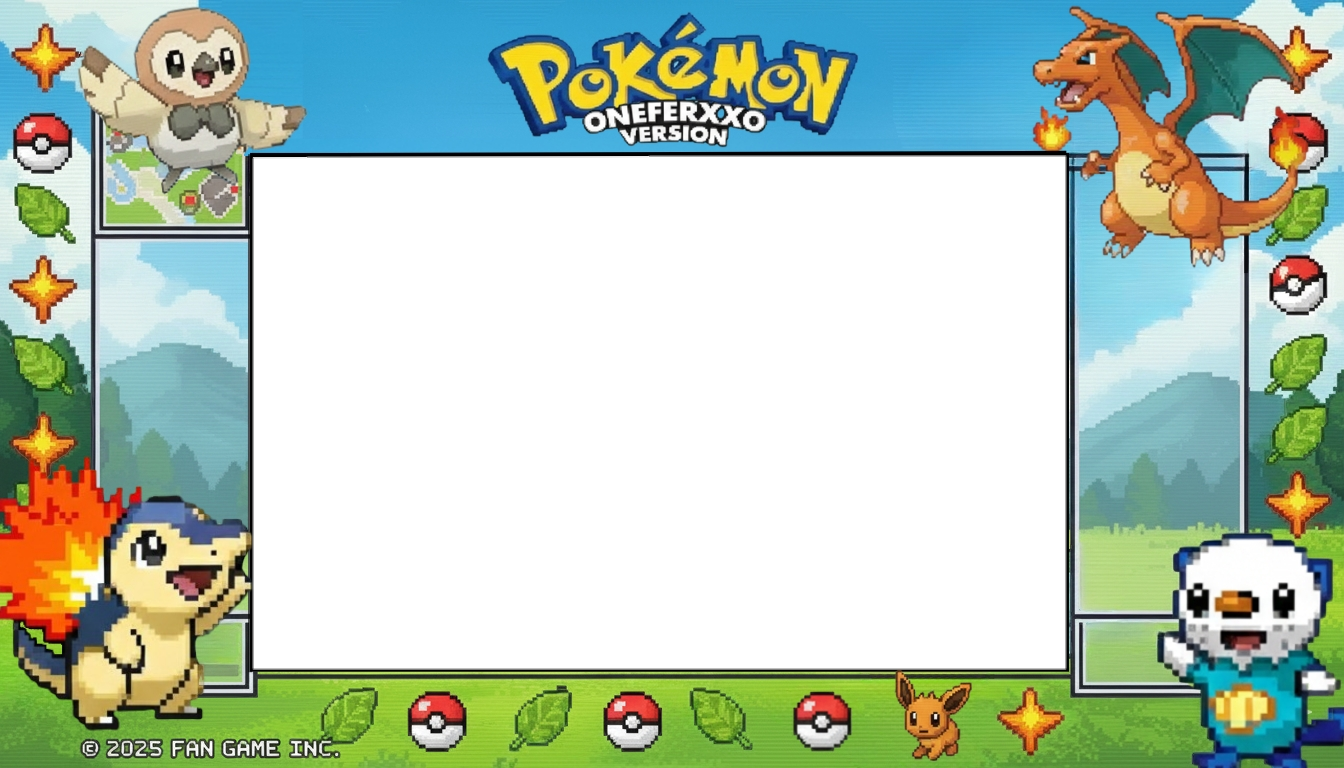
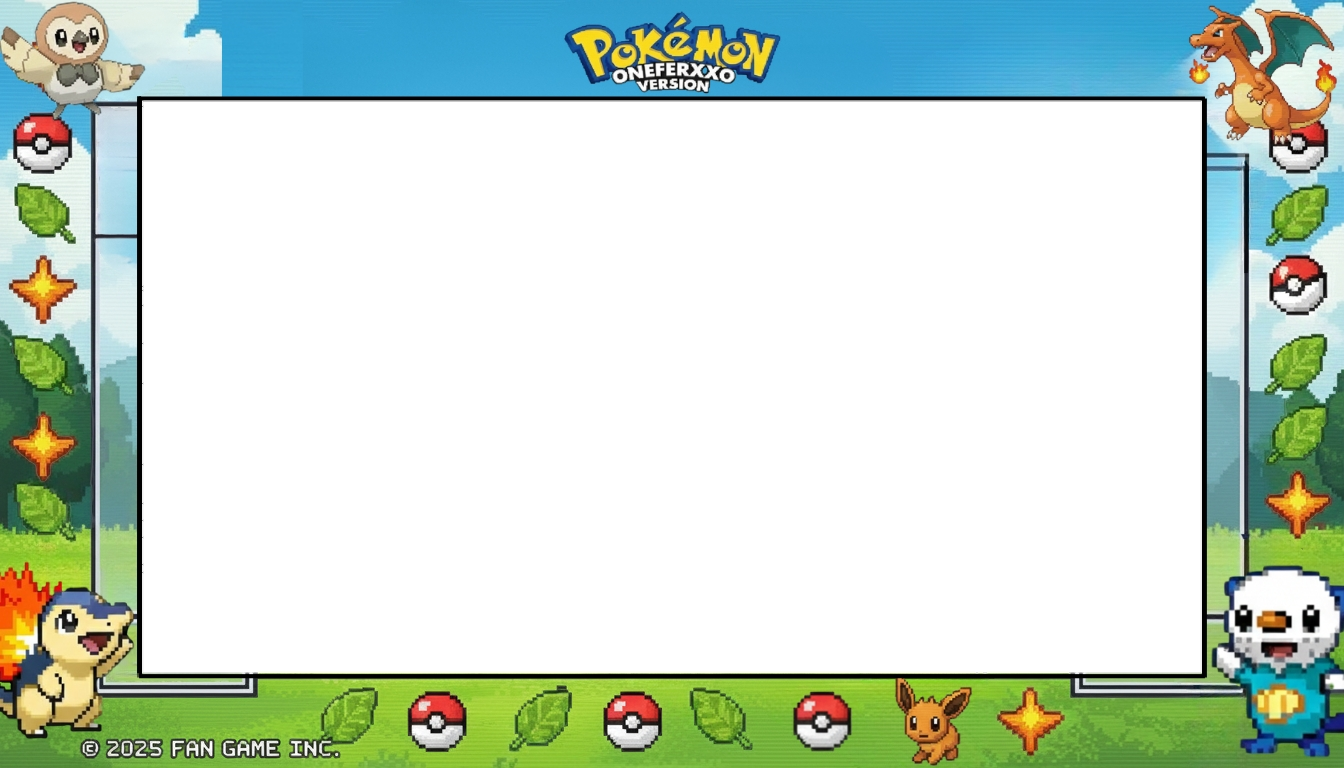
ferxxo 6

diff --git a/core/src/main/java/com/mypokemon/game/IntroScreen.java b/core/src/main/java/com/mypokemon/game/IntroScreen.java
@@ -36,13 +36,15 @@ public class IntroScreen implements Screen {
 
     private Texture frameTexture; // Nuevo Marco
     private Texture pokeballImage;
+    private Texture poofImage;
+    private Animation<TextureRegion> poofAnim;
 
     // Layout constants
     // Viewport relative to screen size (Estimated from image)
-    private static final float VP_X_PCT = 0.185f;
-    private static final float VP_Y_PCT = 0.19f;
-    private static final float VP_W_PCT = 0.63f;
-    private static final float VP_H_PCT = 0.62f; // Bottom padding slightly larger
+    private static final float VP_X_PCT = 0.12f;
+    private static final float VP_Y_PCT = 0.12f;
+    private static final float VP_W_PCT = 0.76f;
+    private static final float VP_H_PCT = 0.76f; // Bottom padding slightly larger
 
     private static final float TEXT_BOX_HEIGHT = 140f;
 
@@ -110,11 +112,19 @@ public class IntroScreen implements Screen {
             protaMasc = new Texture("ProtaMasc.png");
             frameTexture = new Texture("marcoPokemon.png");
             pokeballImage = new Texture("pokeball.png");
+            poofImage = new Texture("poof.png"); // New smoke asset
 
-            // Overwrite first frame with Pokeball
-            if (poseFrames.length > 0) {
-                poseFrames[0] = new TextureRegion(pokeballImage);
+            // Setup Poof Animation (2x2 from sheet)
+            TextureRegion[][] poofTmp = TextureRegion.split(poofImage, poofImage.getWidth() / 2,
+                    poofImage.getHeight() / 2);
+            TextureRegion[] poofFrames = new TextureRegion[4];
+            int pIndex = 0;
+            for (int i = 0; i < 2; i++) {
+                for (int j = 0; j < 2; j++) {
+                    poofFrames[pIndex++] = poofTmp[i][j];
+                }
             }
+            poofAnim = new Animation<>(0.1f, poofFrames); // 0.4s total duration
 
         } catch (Exception e) {
             Gdx.app.log("IntroScreen", "Could not load assets", e);
@@ -264,6 +274,8 @@ public class IntroScreen implements Screen {
                     currentState = State.PRE_CLOSING;
                 } else {
                     currentState = State.ENTER_NAME;
+                    playerName = ""; // Clear name
+                    caretPosition = 0; // Reset cursor
                 }
                 break;
             case PRE_CLOSING:
@@ -355,8 +367,8 @@ public class IntroScreen implements Screen {
                     imgScale = 1.0f;
                     // Scale Up Ferxxo (Scientist) slightly more if space allows
                     if (imgToDraw == ferxxoImage) {
-                        if (imgToDraw.getHeight() * 1.5f <= availableH)
-                            imgScale = 1.5f;
+                        if (imgToDraw.getHeight() * 1.8f <= availableH)
+                            imgScale = 1.8f; // Increased from 1.5f
                         else
                             imgScale = availableH / imgToDraw.getHeight(); // fallback
                     } else {
@@ -375,27 +387,45 @@ public class IntroScreen implements Screen {
 
                 // JIGGLYPUFF Logic (Intro 2 & 3)
                 if ((currentState == State.INTRO_2 || currentState == State.INTRO_3) && jigglyPoses != null) {
-                    TextureRegion jigFrame = jigglyPoses.getKeyFrame(jigglyStateTime, true);
-                    int frameIndex = jigglyPoses.getKeyFrameIndex(jigglyStateTime);
+                    TextureRegion regionToDraw = null;
+                    float drawW = 60f; // Default Jigglypuff size
+                    float drawXOffset = 0.02f;
+                    float drawYOffset = 0.62f;
 
-                    float jW = 60;
-                    if (frameIndex == 0) {
-                        jW = 45; // Smaller size for Pokeball (was 60)
+                    // PHASE 1: Pokeball (0.0 - 0.8s)
+                    if (jigglyStateTime < 0.8f) {
+                        regionToDraw = new TextureRegion(pokeballImage);
+                        drawW = 45f;
+                        // Center Pokeball on hand
+                        drawXOffset = 0f; // Will calculate manually
+                    }
+                    // PHASE 2: Poof (0.8s - 1.2s)
+                    else if (jigglyStateTime < 1.2f) {
+                        regionToDraw = poofAnim.getKeyFrame(jigglyStateTime - 0.8f, false);
+                        drawW = 50f;
+                    }
+                    // PHASE 3: Jigglypuff (1.2s+)
+                    else {
+                        regionToDraw = jigglyPoses.getKeyFrame(jigglyStateTime - 1.2f, true);
                     }
 
-                    float ratio = (float) jigFrame.getRegionHeight() / jigFrame.getRegionWidth();
-                    float jH = jW * ratio;
+                    if (regionToDraw != null) {
+                        float ratio = (float) regionToDraw.getRegionHeight() / regionToDraw.getRegionWidth();
+                        float jH = drawW * ratio;
 
-                    float jX = imgX + imgW * -0.02f;
-                    float jY = imgY + imgH * 0.62f;
+                        float jX = imgX + imgW * drawXOffset;
+                        float jY = imgY + imgH * drawYOffset;
 
-                    // Centering adjustment for smaller pokeball to align with hand
-                    if (frameIndex == 0) {
-                        jX += (54 - jW) / 2;
-                        jY -= 8; // Move down
+                        // Custom Centering for Pokeball & Poof
+                        if (jigglyStateTime < 1.2f) { // Both phases
+                            jX = imgX + imgW * 0.02f + (60 - drawW) / 2; // Center relative to Jigglypuff slot
+                            if (jigglyStateTime < 0.8f) {
+                                jY -= 8; // Pokeball specific offset
+                            }
+                        }
+
+                        game.batch.draw(regionToDraw, jX, jY, drawW, jH);
                     }
-
-                    game.batch.draw(jigFrame, jX, jY, jW, jH);
                 }
             }
         } else if (currentState == State.PRE_CLOSING || currentState == State.FADE_OUT) {
@@ -494,7 +524,7 @@ public class IntroScreen implements Screen {
         game.font.getData().setScale(1.3f); // Slightly smaller to fit frame
 
         float textX = boxX + 40;
-        float textY = boxY + boxH - 40;
+        float textY = boxY + boxH - 30; // Adjusted down slightly (was -20)
         float textWidth = boxW - 80;
 
         String currentText = "";
@@ -561,11 +591,11 @@ public class IntroScreen implements Screen {
 
         // 3.1 Confirmation Menu (SÍ/NO) Text
         if (currentState == State.CONFIRM_NAME) {
-            float menuX = boxX + 610;
+            float menuX = boxX + 680; // Moved right (was 610)
             float menuY = boxY + boxH + 20;
             float menuH = 100;
 
-            game.font.getData().setScale(1.2f);
+            game.font.getData().setScale(1.6f); // Larger text (was 1.2)
             game.font.setColor(Color.BLACK);
             game.font.draw(game.batch, "SÍ", menuX + 40, menuY + menuH - 25);
             game.font.draw(game.batch, "NO", menuX + 40, menuY + 35);
@@ -589,7 +619,7 @@ public class IntroScreen implements Screen {
         }
 
         if (currentState != State.FADE_OUT) {
-            game.font.draw(game.batch, helper, boxX, boxY - 10);
+            game.font.draw(game.batch, helper, boxX + 40, boxY + 30); // Moved RIGHT (was boxX)
         }
 
         game.batch.end();
@@ -677,6 +707,8 @@ public class IntroScreen implements Screen {
             frameTexture.dispose();
         if (pokeballImage != null)
             pokeballImage.dispose();
+        if (poofImage != null)
+            poofImage.dispose();
     }
 
 }
